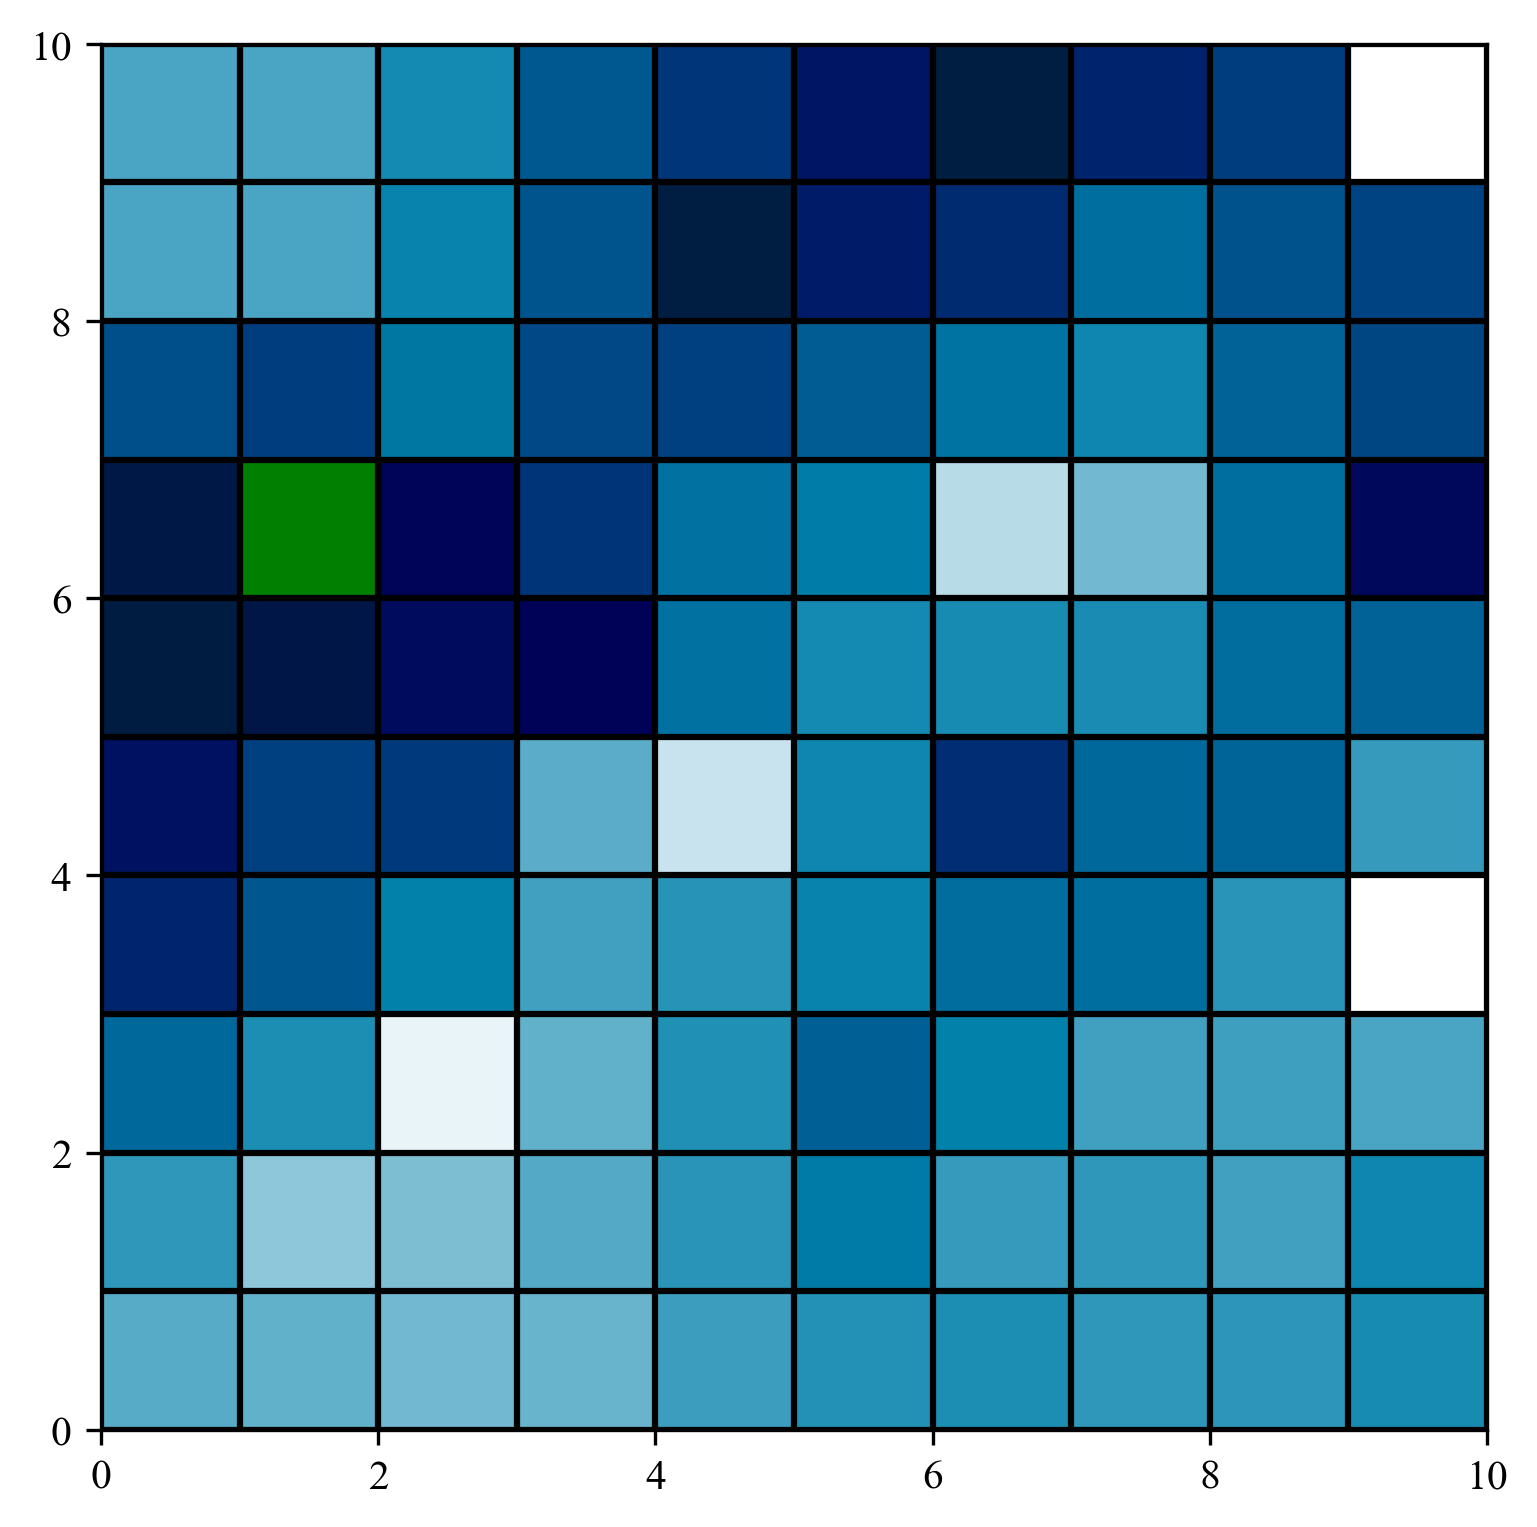
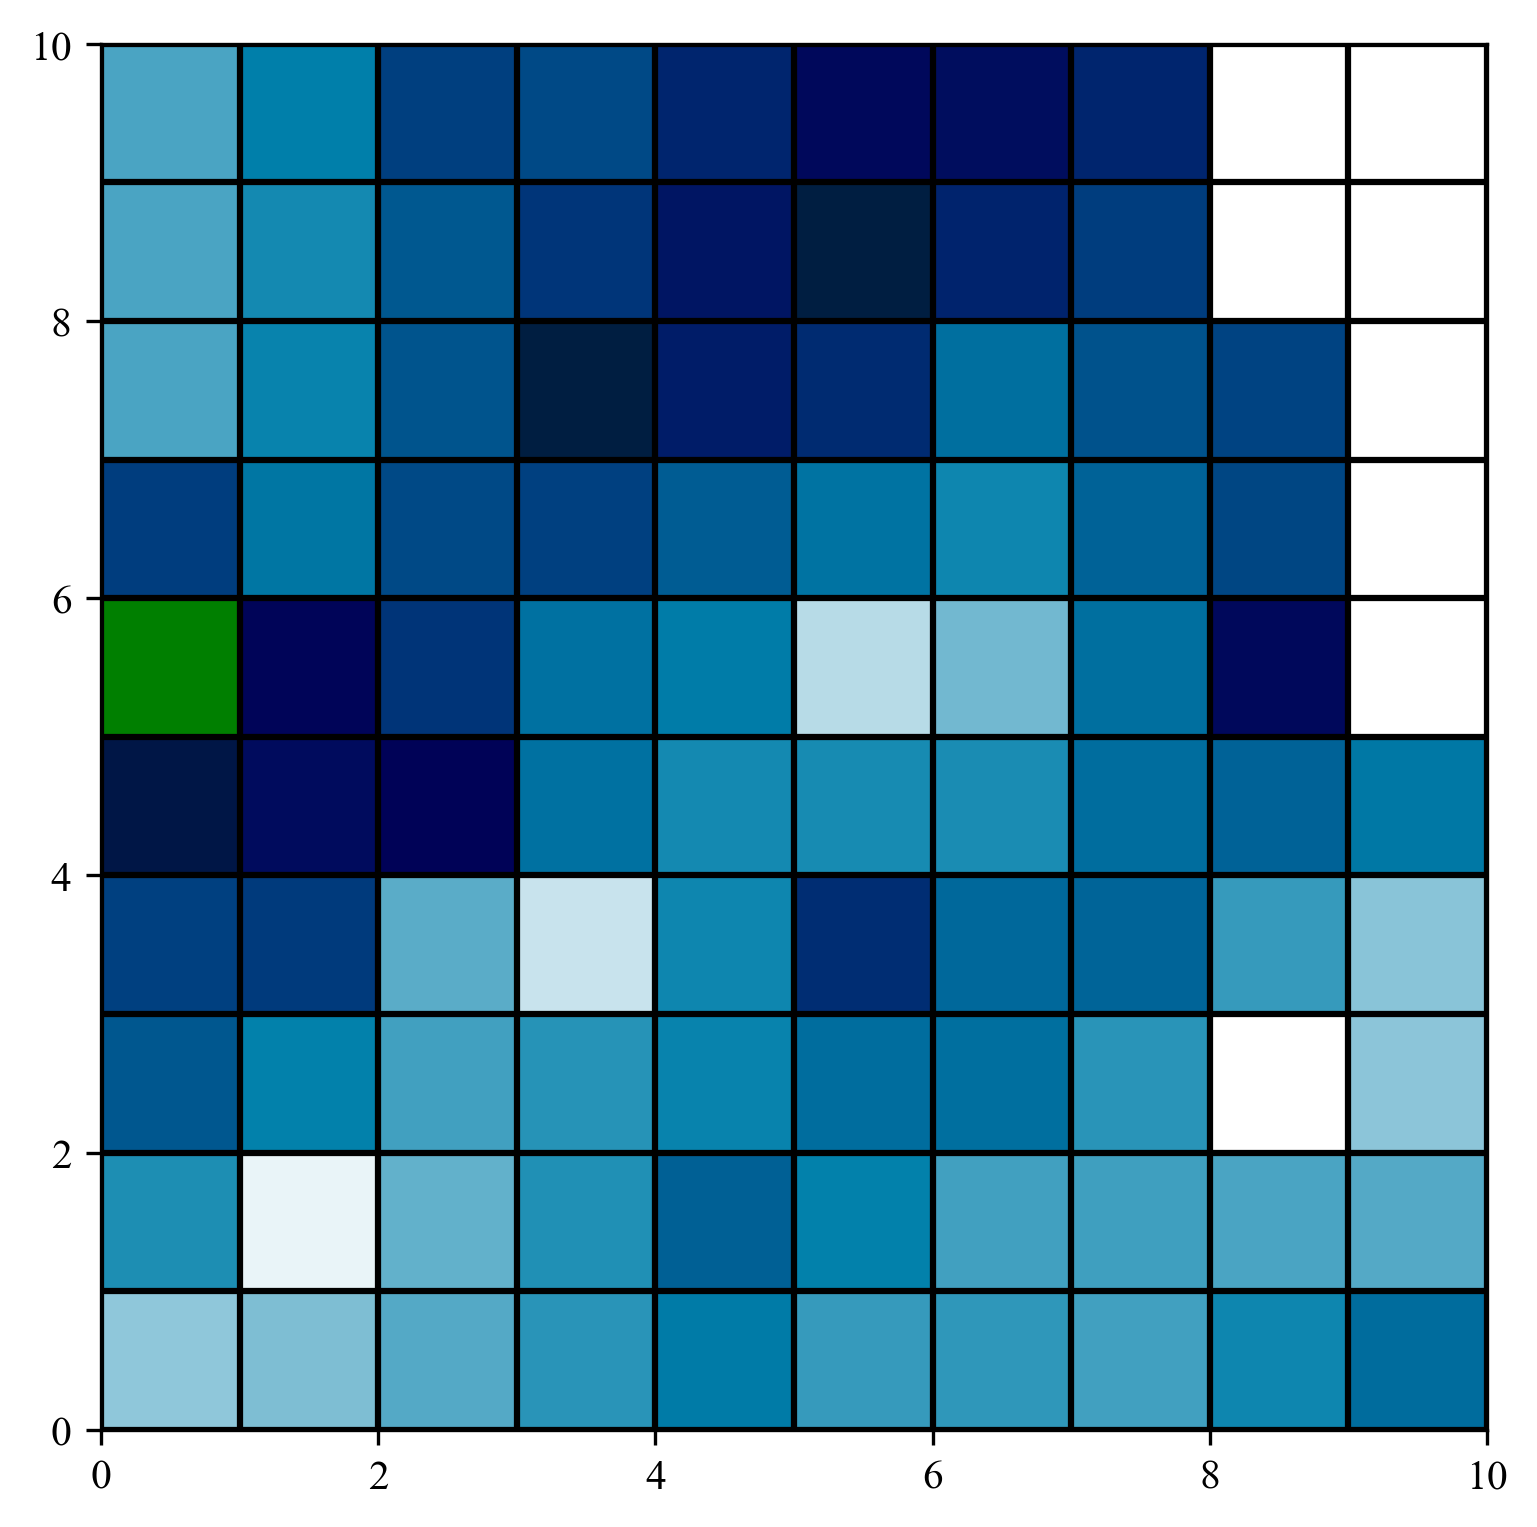
rest

diff --git a/2D/script_grid_interpolation.py b/2D/script_grid_interpolation.py
@@ -18,10 +18,12 @@ plt.figure(figsize=(6,6))
 radius_local_spheres=[this_sphere.radius for this_sphere in local_spheres]
 radius_maximum=np.max(radius_local_spheres)
 
-for this_sphere in local_spheres:
+"""存在一个取整运算，为了直接通过坐标给出网格的索引，需要这样的运算！"""
+'''描述这个映射的过程，考虑radius'''
+for this_sphere in window_spheres:
         
-    plt.plot(this_sphere.position[0],
-             this_sphere.position[1],
+    plt.plot(int(this_sphere.position[0]-0)+0.5,
+             int(this_sphere.position[1]-0)+0.5,
              marker='o',
              markersize=6,
              color='b')  
@@ -120,14 +122,6 @@ plt.figure(figsize=(6,6))
 plt.imshow(np.flip(z_mesh_points,axis=0)[1:,1:],cmap='ocean')
 PlotMesh(x_min_relative,y_min_relative,length_window)
 
-for this_sphere in local_spheres:
-        
-    plt.plot(this_sphere.position[0]-400,
-             this_sphere.position[1]+0.5,
-             marker='o',
-             markersize=6,
-             color='b')  
-    
 #change ticks
 ax=plt.gca()
 
@@ -207,7 +201,7 @@ else:
                 
 plt.figure(figsize=(6,6))
 
-plt.imshow(np.flip(z_mesh_points,axis=0),cmap='ocean')
+plt.imshow(np.flip(z_mesh_points,axis=0)[1:,1:],cmap='ocean')
 PlotMesh(x_min_relative,y_min_relative,length_window)
     
 #change ticks
